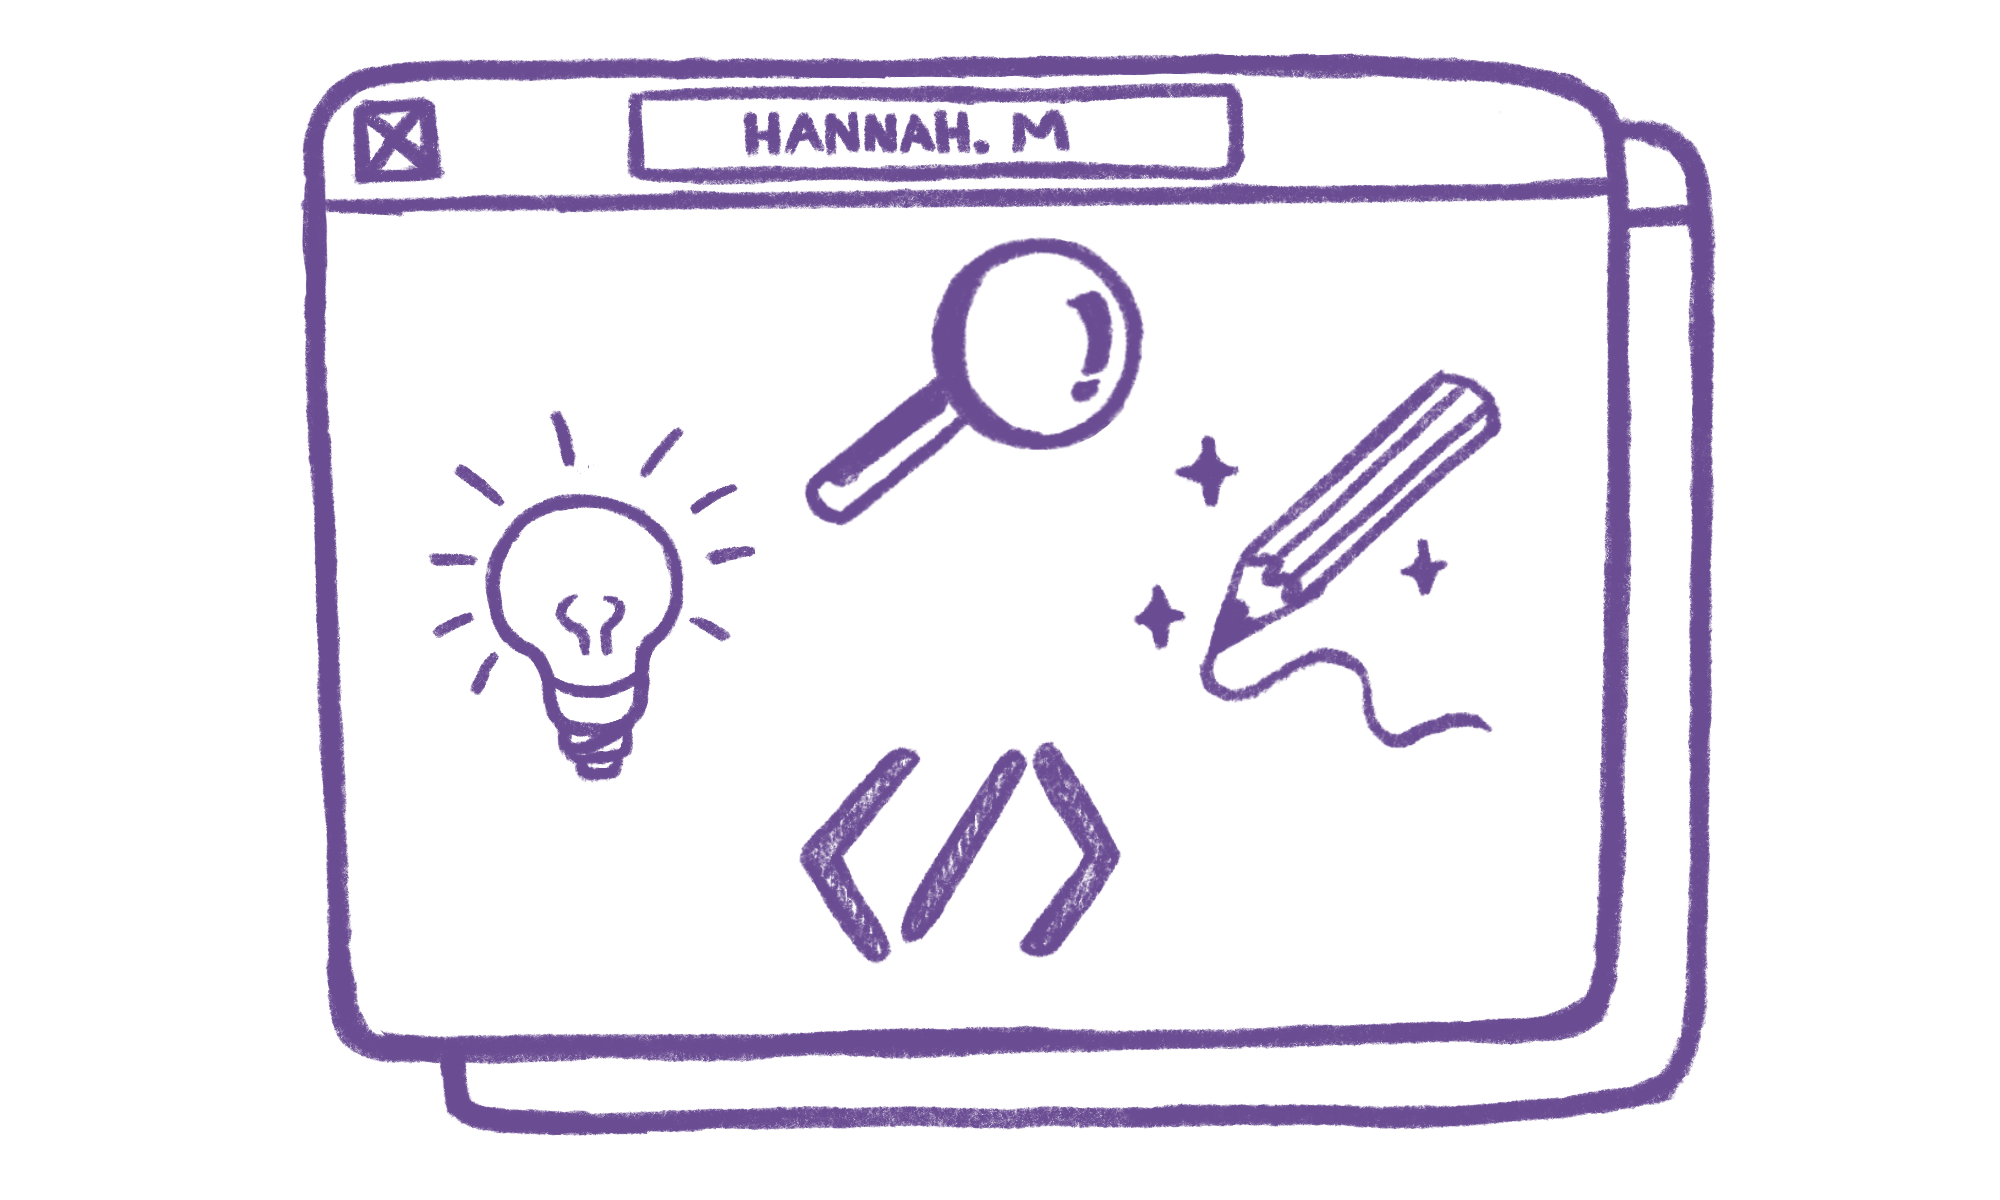
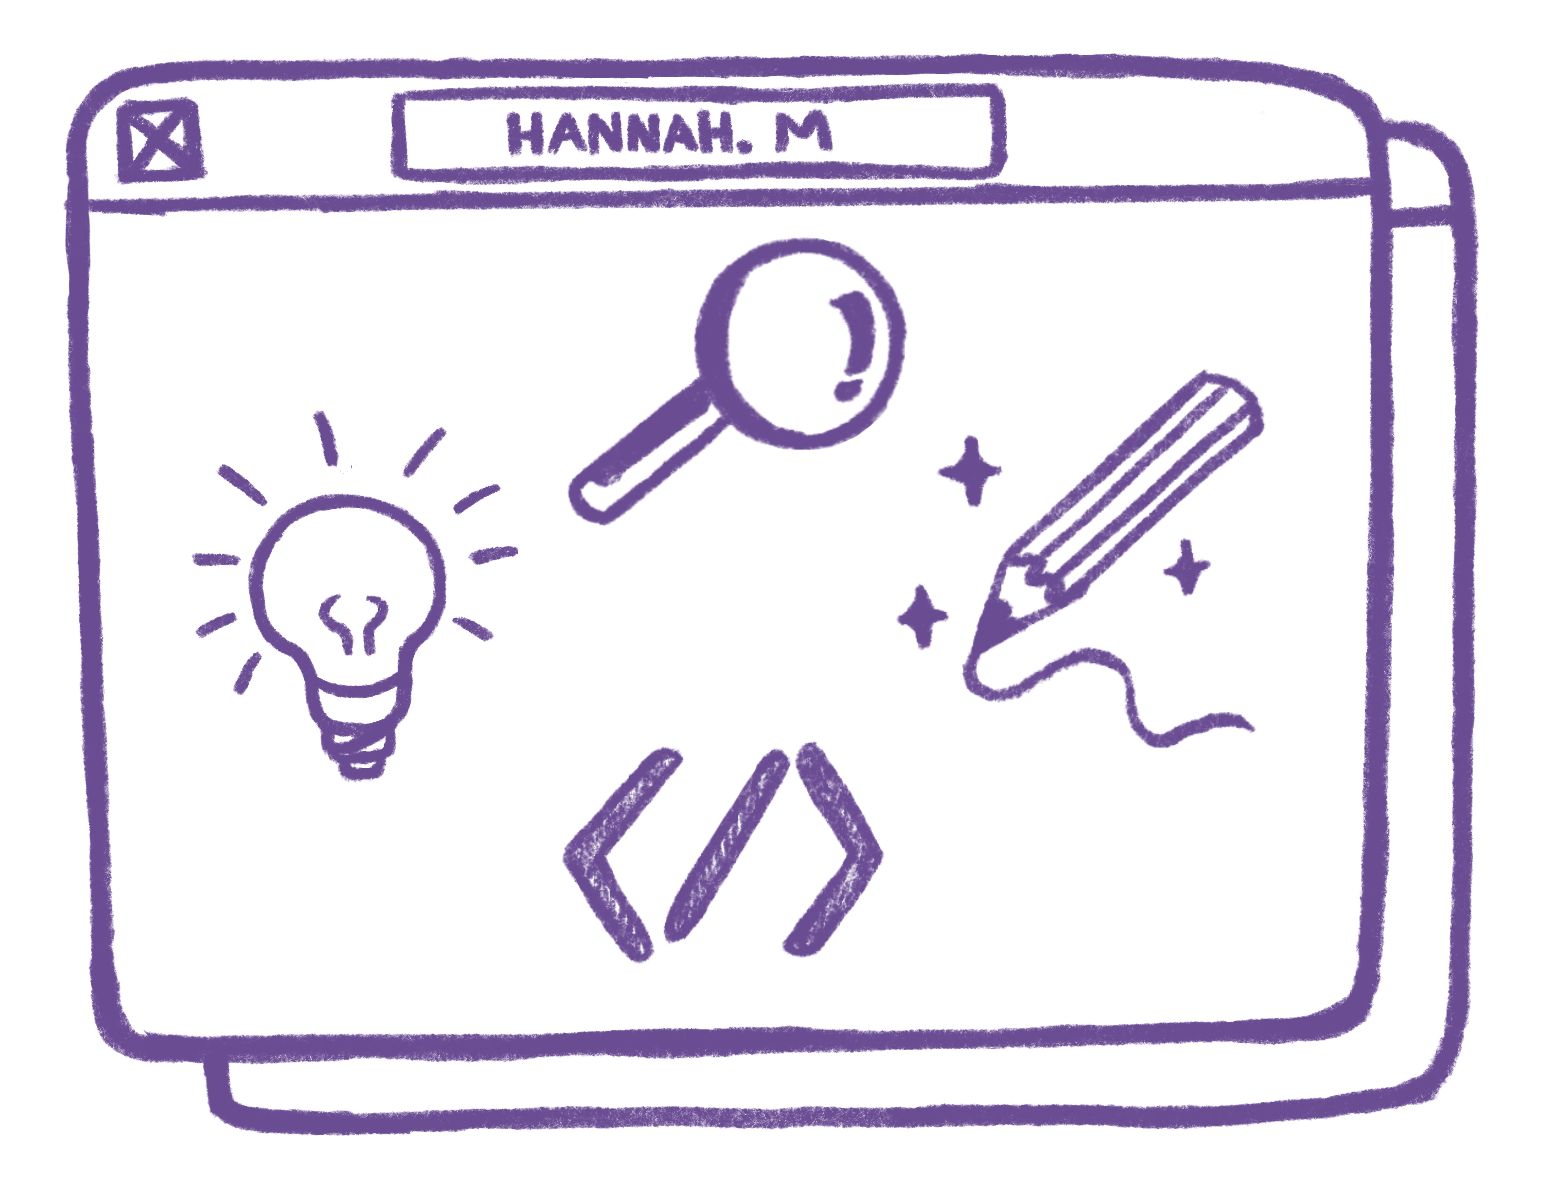
opening fixes

Changed region(s): [[0.0311, 0.0308, 0.965, 0.9558], [0.3424, 0.6167, 0.5914, 0.8017], [0.6848, 0.925, 0.716, 0.9558]]

diff --git a/css/style.css b/css/style.css
@@ -183,22 +183,25 @@ a, p {
 /* 'over mij' opening naar werk */
 #opening {
     display: grid;
-    grid-template-columns: 2fr 1fr;
+    grid-template-columns: 1.5fr 2fr;
     background-color: #f9f9f9;
-    width: 90%;
+    width: 80%;
 
     border-radius: 22px;    
     box-shadow: 6px 6px rgb(177, 158, 231);
 }
 
 #opening *{
-    font-family: 'Aileron', sans-serif;
-    color: #6A4C93;
     padding: 20px;
 }
 
+#opening p {
+    font-family: 'Aileron', sans-serif;
+    color: #6A4C93;
+}
+
 .openingpic {
-    height: 380px;
+    height: 320px;
     padding: 5px !important;
 }
 
